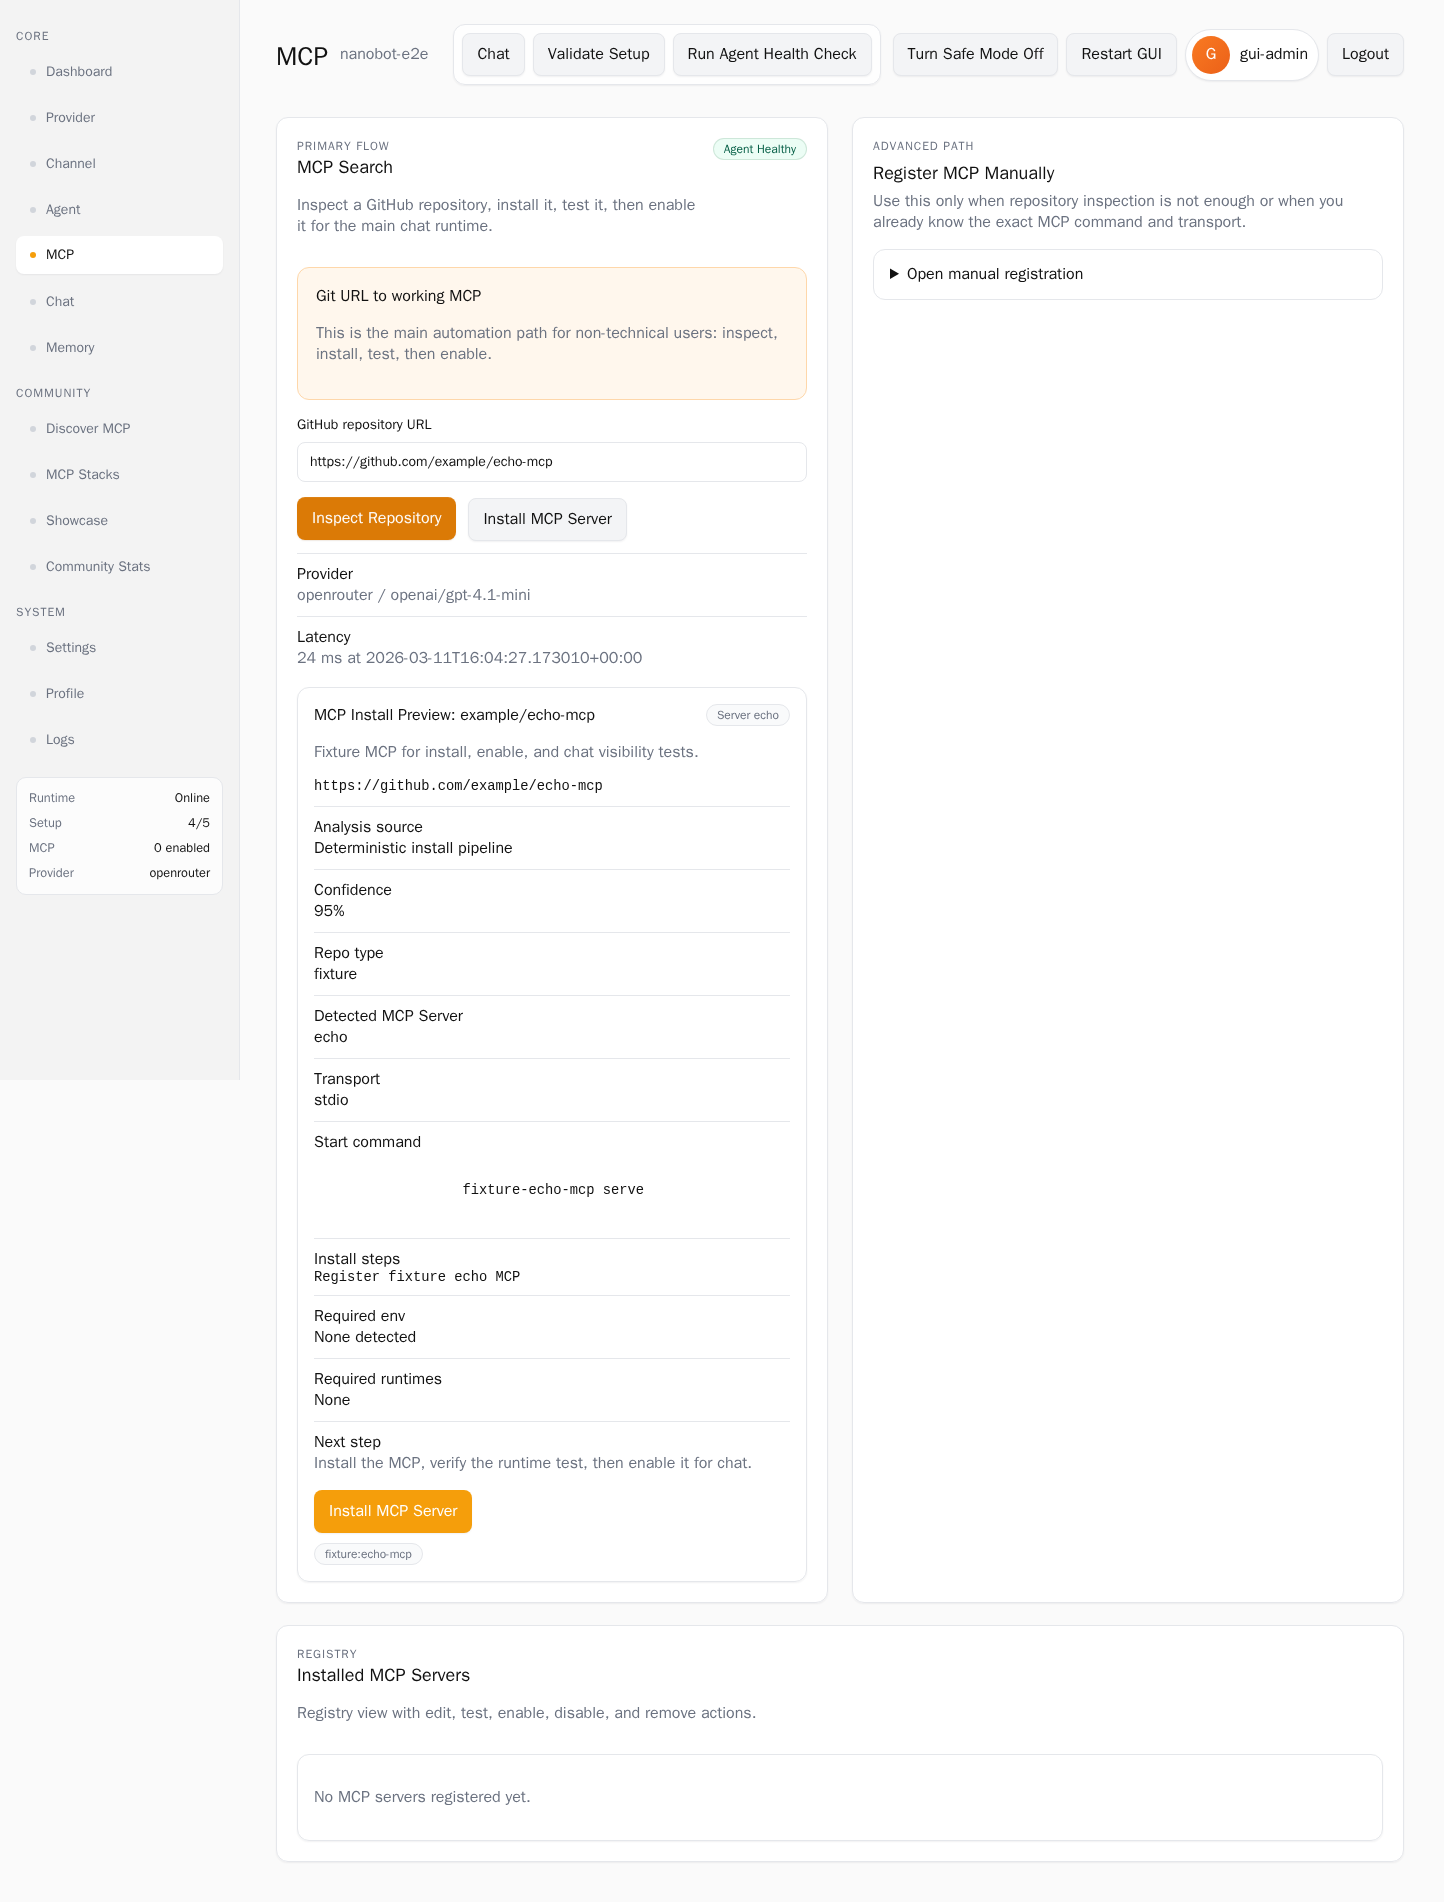
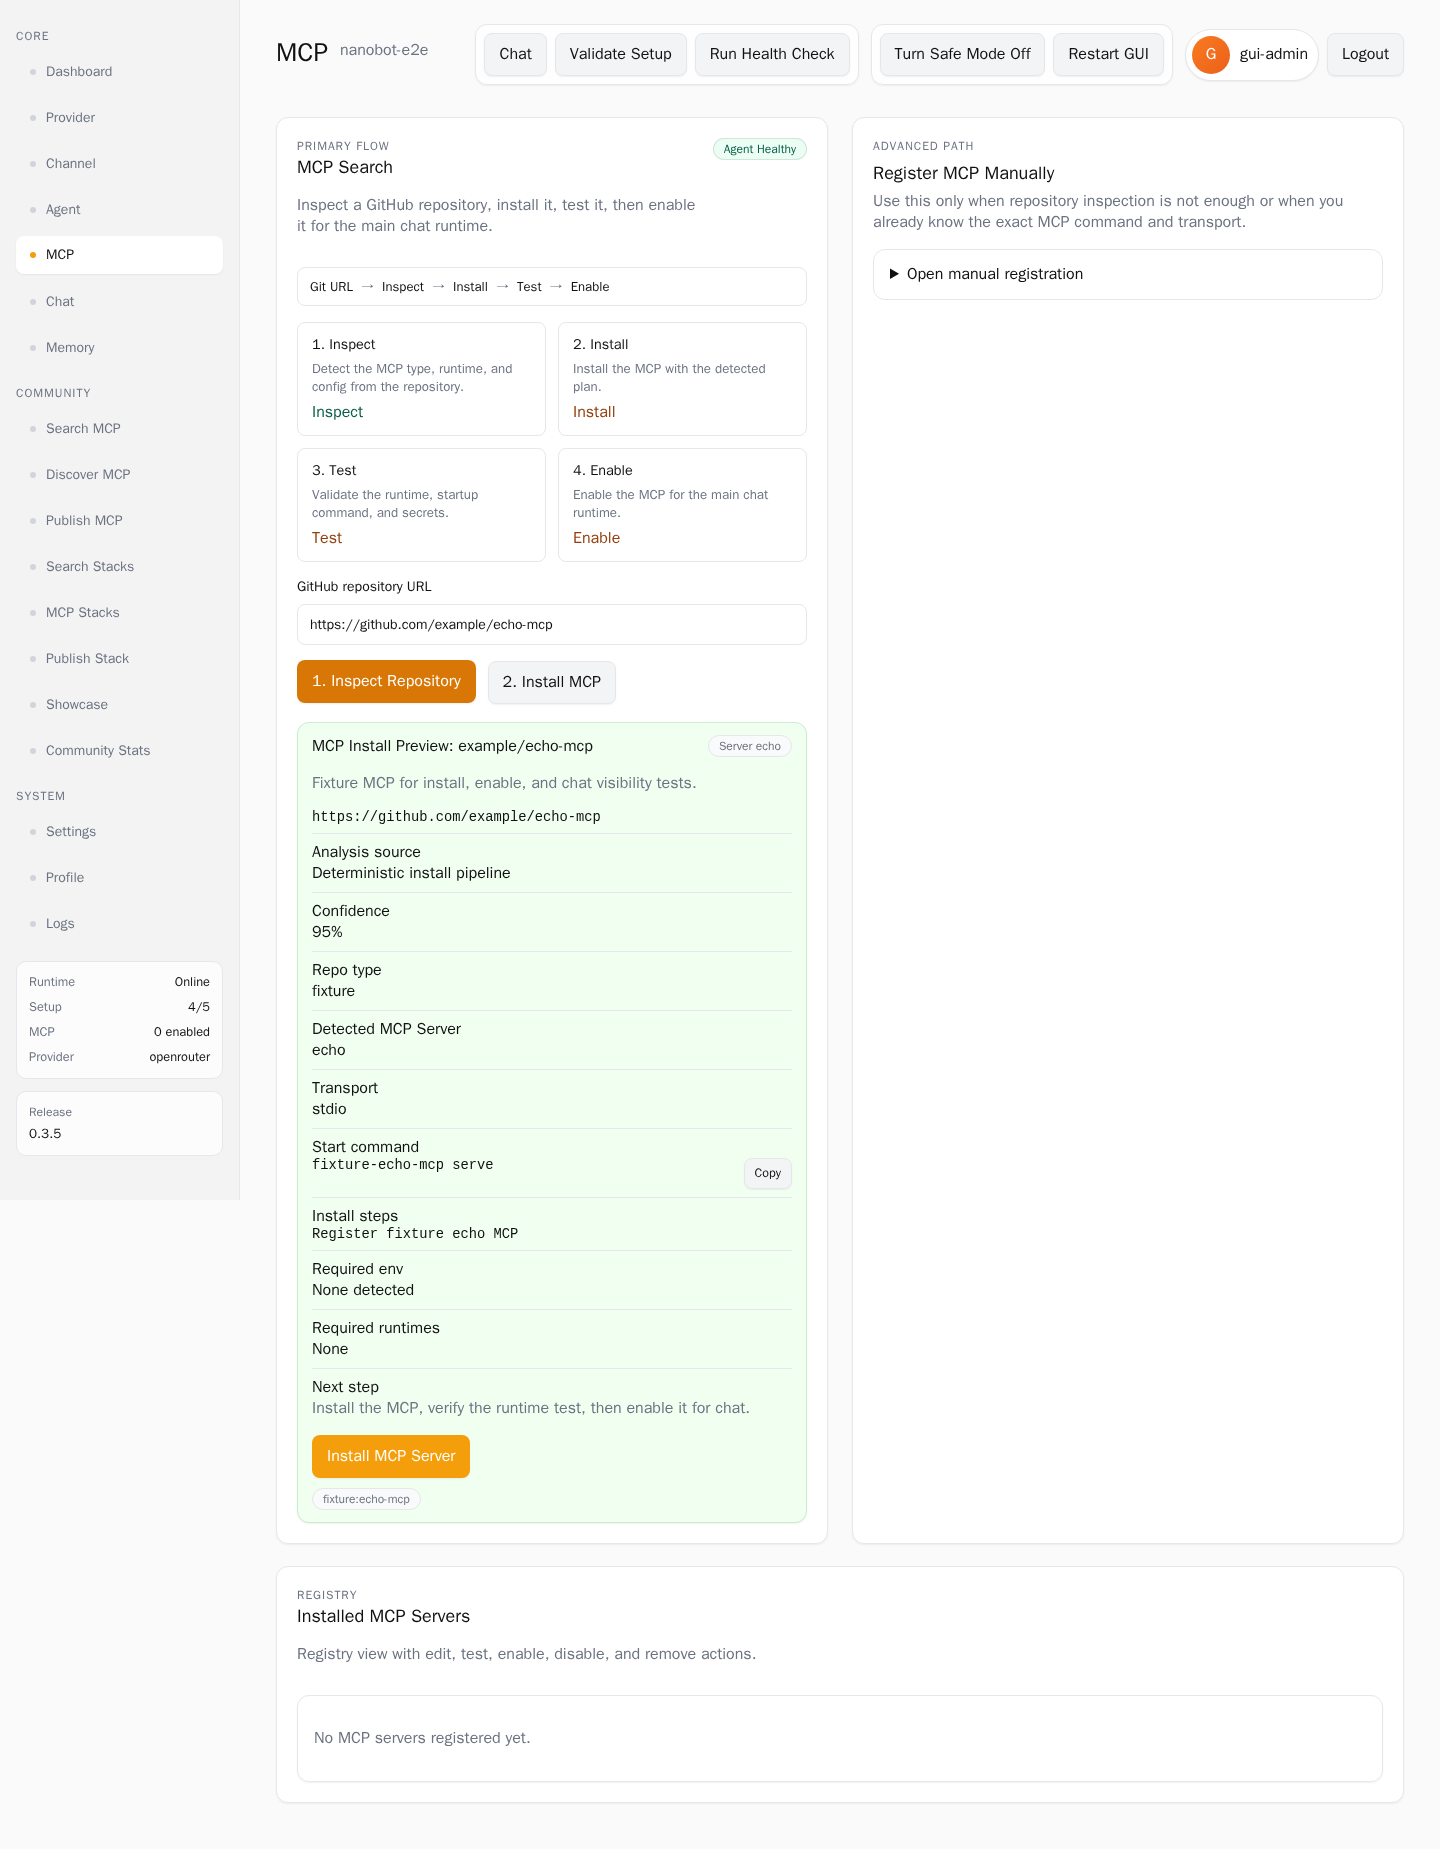
Release v0.3.9

diff --git a/nanobot_webgui/templates/mcp.html b/nanobot_webgui/templates/mcp.html
@@ -97,18 +97,17 @@
             </div>
             <div>
               <strong>{{ "Remote endpoint" if preview.run_url else "Start command" }}</strong>
+              {% if preview.run_url %}
+                {% set preview_launch_target = preview.run_url %}
+              {% else %}
+                {% set preview_launch_target = ([preview.run_command] + (preview.run_args or [])) | reject("equalto", "") | list | join(" ") %}
+              {% endif %}
               <div class="copy-field">
-                <div class="mono copy-field-value">
-                {% if preview.run_url %}
-                  {{ preview.run_url }}
-                {% else %}
-                  {{ preview.run_command }}{% if preview.run_args %} {{ preview.run_args|join(' ') }}{% endif %}
-                {% endif %}
-                </div>
+                <div class="mono copy-field-value">{{ preview_launch_target }}</div>
                 <button
                   class="secondary copy-inline-button"
                   type="button"
-                  data-copy-text="{% if preview.run_url %}{{ preview.run_url }}{% else %}{{ preview.run_command }}{% if preview.run_args %} {{ preview.run_args|join(' ') }}{% endif %}{% endif %}"
+                  data-copy-text="{{ preview_launch_target }}"
                   data-testid="mcp-preview-copy-command"
                 >
                   Copy

diff --git a/nanobot_webgui/templates/mcp_detail.html b/nanobot_webgui/templates/mcp_detail.html
@@ -295,7 +295,12 @@
                 </label>
                 <label>
                   Category
-                  <input type="text" name="category" value="{{ publish_form.category }}" data-testid="mcp-community-publish-category">
+                  <select name="category" data-testid="mcp-community-publish-category">
+                    <option value="">Select a category</option>
+                    {% for item in community_categories %}
+                      <option value="{{ item }}" {% if publish_form.category == item %}selected{% endif %}>{{ item }}</option>
+                    {% endfor %}
+                  </select>
                 </label>
               </div>
               <label style="margin-top: 12px; display: block;">
@@ -345,7 +350,7 @@
             {% for field in env_fields %}
               <label>
                 {{ field.name }}{% if field.required %} (required){% endif %}
-                <input type="password" name="env__{{ field.name }}" value="{{ field.value }}" data-testid="mcp-env-{{ field.name }}">
+                <input type="text" name="env__{{ field.name }}" value="{{ field.value }}" autocomplete="off" spellcheck="false" data-testid="mcp-env-{{ field.name }}">
               </label>
             {% endfor %}
           </div>

diff --git a/nanobot_webgui/app.py b/nanobot_webgui/app.py
@@ -388,6 +388,18 @@ def create_gui_app(settings: GUISettings) -> FastAPI:
         )
         return payload, overview, recommendations, error
 
+    async def load_community_mcp_categories() -> list[str]:
+        """Load MCP category choices for publish forms, with offline fallbacks."""
+        categories = _community_category_options()
+        if not community_service.enabled:
+            return categories
+        try:
+            payload = await community_service.marketplace()
+        except Exception:
+            gui_logger.warning("community_marketplace_categories_failed", exc_info=True)
+            return categories
+        return _community_category_options(payload.get("categories", []))
+
     async def load_community_stack_state(*, query: str = "") -> tuple[dict[str, Any], str]:
         """Load reusable stack data from the community hub."""
         payload: dict[str, Any] = {}
@@ -854,6 +866,7 @@ def create_gui_app(settings: GUISettings) -> FastAPI:
         server_name: str,
         community_item: dict[str, Any] | None = None,
         community_fixes: list[dict[str, Any]] | None = None,
+        community_categories: list[str] | None = None,
         mcp_test_history: list[dict[str, Any]] | None = None,
         error: str | None = None,
         status_code: int = 200,
@@ -912,6 +925,7 @@ def create_gui_app(settings: GUISettings) -> FastAPI:
                 "community_item": community_item or {},
                 "community_fixes": community_fixes or [],
                 "community_recommended_fix": recommended_config_fix or {},
+                "community_categories": community_categories or _community_category_options(),
                 "community_preferences": community_preferences,
                 "community_write_enabled": community_service.can_write,
                 "publish_form": _default_mcp_publish_form(card, user),
@@ -2822,6 +2836,7 @@ def create_gui_app(settings: GUISettings) -> FastAPI:
         record = config_service.get_mcp_record(server_name)
         community_item: dict[str, Any] = {}
         community_fixes: list[dict[str, Any]] = []
+        community_categories = await load_community_mcp_categories()
         community_slug = str(record.get("community_slug", "")).strip()
         if community_slug and community_service.enabled:
             try:
@@ -2836,6 +2851,7 @@ def create_gui_app(settings: GUISettings) -> FastAPI:
             server_name=server_name,
             community_item=community_item,
             community_fixes=community_fixes,
+            community_categories=community_categories,
             mcp_test_history=history,
         )
 
@@ -2868,6 +2884,7 @@ def create_gui_app(settings: GUISettings) -> FastAPI:
             record = config_service.get_mcp_record(server_name)
             community_item: dict[str, Any] = {}
             community_fixes: list[dict[str, Any]] = []
+            community_categories = await load_community_mcp_categories()
             community_slug = str(record.get("community_slug", "")).strip()
             if community_slug and community_service.enabled:
                 try:
@@ -2882,6 +2899,7 @@ def create_gui_app(settings: GUISettings) -> FastAPI:
                 server_name=server_name,
                 community_item=community_item,
                 community_fixes=community_fixes,
+                community_categories=community_categories,
                 mcp_test_history=history,
                 error=str(exc),
                 status_code=400,
@@ -4128,6 +4146,28 @@ def _guess_community_category(card: dict[str, Any]) -> str:
     if any(token in haystack for token in ("search", "crawl", "extract", "browser", "doc", "context")):
         return "Research"
     return "Automation"
+
+
+def _community_category_options(*sources: Any) -> list[str]:
+    """Return stable category choices for MCP publish forms."""
+    options = [
+        "Automation",
+        "Coding",
+        "Research",
+        "Knowledge workflows",
+        "Security",
+        "Monitoring",
+        "DevOps",
+    ]
+    seen = {item.lower() for item in options}
+    for source in sources:
+        values = source if isinstance(source, list) else [source]
+        for value in values:
+            normalized = str(value or "").strip()
+            if normalized and normalized.lower() not in seen:
+                options.append(normalized)
+                seen.add(normalized.lower())
+    return options
 
 
 def _guess_community_install_method(card: dict[str, Any]) -> str:

diff --git a/tests/test_gui_backend_integration.py b/tests/test_gui_backend_integration.py
@@ -632,6 +632,47 @@ def test_gui_mcp_analyze_preview_shows_pipeline_metadata(tmp_path: Path):
     assert "Deterministic install pipeline" in response.text
     assert "Required runtimes" in response.text
     assert "Next step" in response.text
+    assert '<div class="mono copy-field-value">fixture-echo-mcp serve</div>' in response.text
+
+
+def test_gui_mcp_detail_publish_uses_category_select_and_visible_env_fields(tmp_path: Path):
+    client, app = _make_client(
+        tmp_path,
+        community_api_url="http://community-hub.test/api/v1",
+        community_api_token="hub-write-token",
+    )
+
+    _bootstrap_admin(client)
+    _complete_setup(client)
+    _install_fixture_mcp_backend(app)
+    app.state.config_service.set_community_preferences(
+        share_anonymous_metrics=False,
+        receive_recommendations=True,
+        show_marketplace_stats=True,
+        allow_public_mcp_submissions=True,
+    )
+
+    async def fake_marketplace(**_kwargs):
+        return {"categories": ["Knowledge workflows", "Research"]}
+
+    app.state.community_service.marketplace = fake_marketplace  # type: ignore[method-assign]
+
+    install_response = client.post(
+        "/mcp/install",
+        data={"source": "https://github.com/example/secret-mcp"},
+        follow_redirects=True,
+    )
+    assert install_response.status_code == 200
+
+    response = client.get("/mcp/secret")
+
+    assert response.status_code == 200
+    assert '<select name="category" data-testid="mcp-community-publish-category">' in response.text
+    assert '<option value="Knowledge workflows"' in response.text
+    assert (
+        '<input type="text" name="env__FAKE_API_KEY" value="" autocomplete="off" spellcheck="false" '
+        'data-testid="mcp-env-FAKE_API_KEY">'
+    ) in response.text
 
 
 def test_gui_community_detail_and_install_flow_persist_recommendations(tmp_path: Path):

diff --git a/README.md b/README.md
@@ -1,9 +1,9 @@
 <div align="center">
   <h1>nanobot-webgui</h1>
-  <p><strong>Release 0.3.8</strong></p>
+  <p><strong>Release 0.3.9</strong></p>
   <p>Production-focused browser GUI for <a href="https://github.com/HKUDS/nanobot">HKUDS/nanobot</a>.</p>
   <p>
-    <img src="https://img.shields.io/badge/release-0.3.8-f59e0b" alt="Release 0.3.8">
+    <img src="https://img.shields.io/badge/release-0.3.9-f59e0b" alt="Release 0.3.9">
     <a href="https://github.com/HKUDS/nanobot"><img src="https://img.shields.io/badge/upstream-HKUDS%2Fnanobot-c4632c" alt="Upstream"></a>
     <img src="https://img.shields.io/badge/python-3.11%2B-blue" alt="Python">
     <img src="https://img.shields.io/badge/gui-FastAPI%20%2B%20Jinja2%20%2B%20HTMX-2c7a5a" alt="GUI stack">

diff --git a/WEBGUI.md b/WEBGUI.md
@@ -1,6 +1,6 @@
 # WebGUI Deployment Guide
 
-Current release target: `0.3.8`
+Current release target: `0.3.9`
 
 This guide is the operator-facing companion to the main [README](./README.md). It explains how to run `nanobot-webgui` reliably in standalone mode, attached-to-existing-install mode, and Docker deployments.
 
